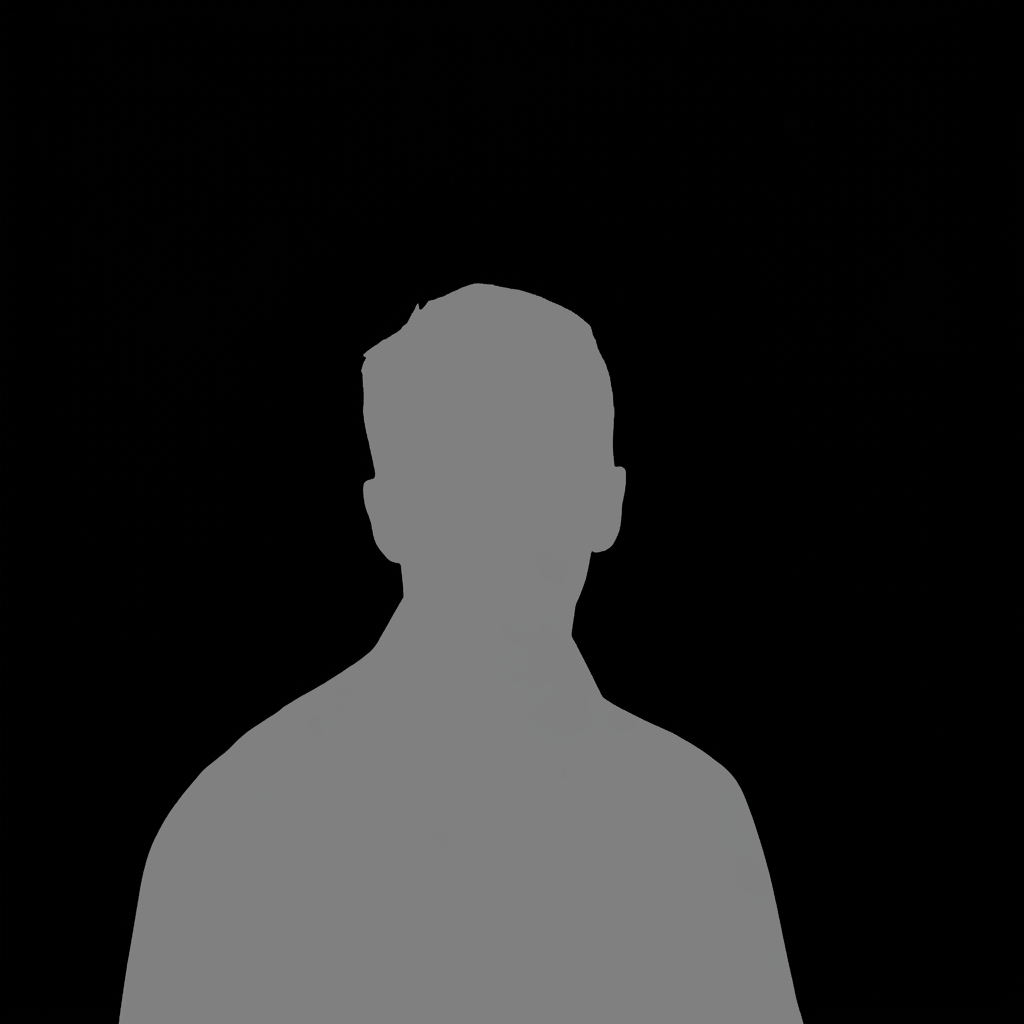
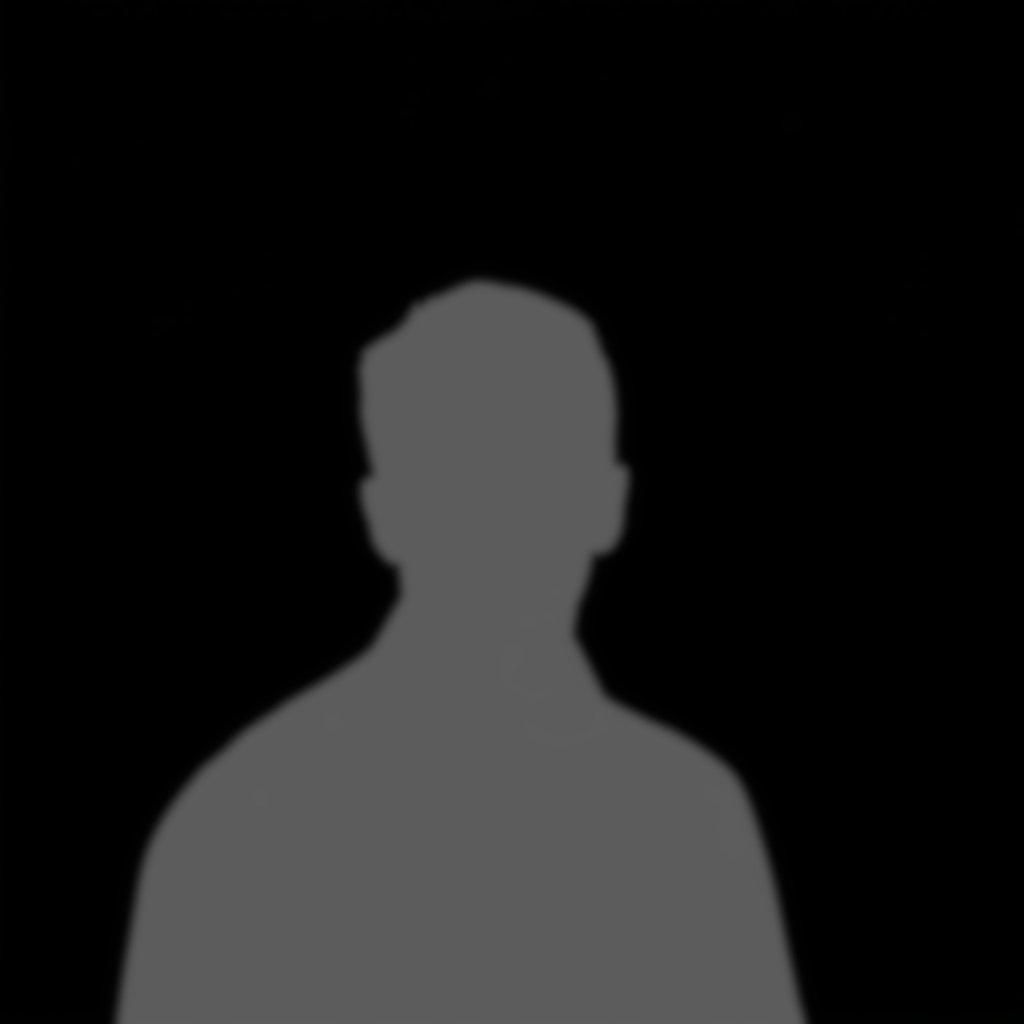
update plakatu

Changed region(s): [[0.0938, 0.25, 0.8125, 1.0]]

diff --git a/index.html b/index.html
@@ -171,7 +171,7 @@
                 <div class="repertoire-grid">
                     <div class="repertoire-card">
                         <div class="repertoire-image">
-                            <img src="images/improshow1.jpg" alt="Divadelní představení Improshow - soubor Vitium" style="background-color: black; object-fit: contain;" loading="lazy">
+                            <img src="images/improshow2.jpg" alt="Divadelní představení Improshow - soubor Vitium" style="background-color: black; object-fit: contain;" loading="lazy">
                         </div>
                         <h3 class="repertoire-title">Improshow</h3>
                         <p class="repertoire-type">Improvizace</p>
@@ -291,14 +291,6 @@
                     <p class="member-role">Herecký soubor</p>
                     <p class="member-bio">Zvědavá duše, která na jevišti střídá tváře i emoce s dokonalou přesností. I přes mladý věk disponuje neobyčejnou jevištní zkušeností a mimikou, která řekne vše i bez slov.</p>
                 </div>
-                    <!-- <div class="member-card">
-                        <div class="member-image">
-                            <img src="images/p_david.jpg" loading="lazy" alt="Portrét herce amatérského divadelního souboru Vitium Praha - David Kunovjánek">
-                        </div>
-                        <h3 class="member-name">David Kunovjánek</h3>
-                        <p class="member-role">Herecký soubor</p>
-                        <p class="member-bio">Přes den soustředěný marketér, večer neřízená střela. Energii nastřádanou z celého dne vypouští naplno až před diváky v divadle.</p>
-                    </div> -->
                 <div class="member-card">
                     <div class="member-image">
                         <img src="images/p_anezka.jpg" loading="lazy" alt="Portrét herce amatérského divadelního souboru Vitium Praha - Anežka Vestfálová">
@@ -348,42 +340,11 @@
                 </div>
                 <!-- <div class="member-card">
                     <div class="member-image">
-                    </div>
-                    <h3 class="member-name">Markéta Jachurová</h3>
-                    <p class="member-role">Herecký soubor</p>
-                    <p class="member-bio"></p>
-                </div> -->
-                <!-- <div class="member-card">
-                    <div class="member-image">
                         <img src="images/p_samuel.jpg" loading="lazy" alt="Portrét herce amatérského divadelního souboru Vitium Praha - Samuel Jurga">
                     </div>
                     <h3 class="member-name">Samuel Jurga</h3>
                     <p class="member-role">Herecký soubor</p>
                     <p class="member-bio">Talentovaný herec s velkým odhodláním a touhou stát na velkých jevištích, který přináší autenticitu a hloubku do každého vystoupení.</p>
-                </div> -->
-                <!-- <div class="member-card">
-                    <div class="member-image">
-                        <img src="images/p_martin2.jpg" loading="lazy" alt="Portrét herce amatérského divadelního souboru Vitium Praha - Martin Kollár">
-                    </div>
-                    <h3 class="member-name">Martin Kollár</h3>
-                    <p class="member-role">Herecký soubor</p>
-                    <p class="member-bio">Živelná energie našeho souboru. S několikaletými zkušenostmi v zádech vnáší na jeviště nespoutanou, zdravě bláznivou atmosféru a nakažlivou radost ze hry.</p>
-                </div> -->
-                <!-- <div class="member-card">
-                    <div class="member-image">
-                        <img src="images/p_tyna.jpg" loading="lazy" alt="Portrét herce amatérského divadelního souboru Vitium Praha - Týna Hejzlarová">
-                    </div>
-                    <h3 class="member-name">Týna Hejzlarová</h3>
-                    <p class="member-role">Herecký soubor</p>
-                    <p class="member-bio">Mladá krev našeho souboru, která přinásí nový pohled a nápaditost do všech svých charakterů.</p>
-                </div> -->
-                <!-- <div class="member-card">
-                    <div class="member-image">    
-                        <img src="images/p_misa.jpg" loading="lazy" alt="Portrét herce amatérského divadelního souboru Vitium Praha - Michaela Kantorová">
-                    </div>
-                    <h3 class="member-name">Michaela Kantorová</h3>
-                    <p class="member-role">Herecký soubor</p>
-                    <p class="member-bio">...</p>
                 </div> -->
                 <div class="member-card">
                     <div class="member-image">
